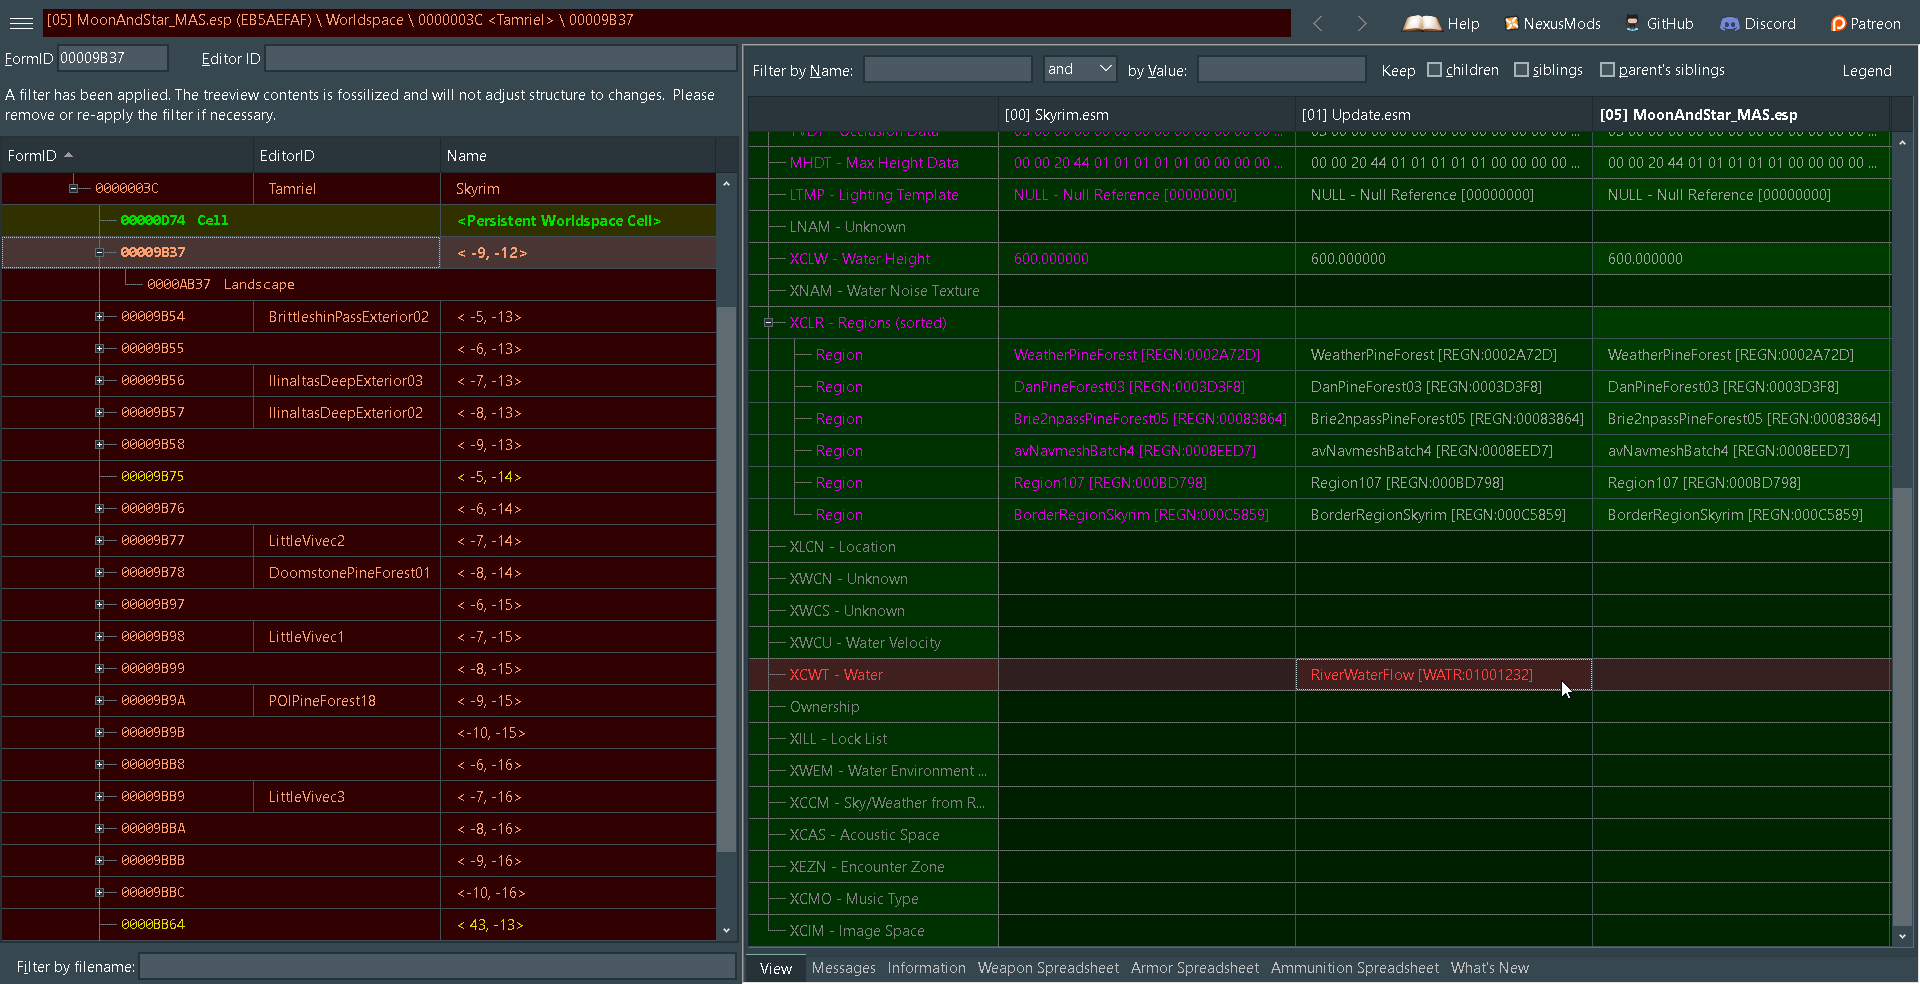
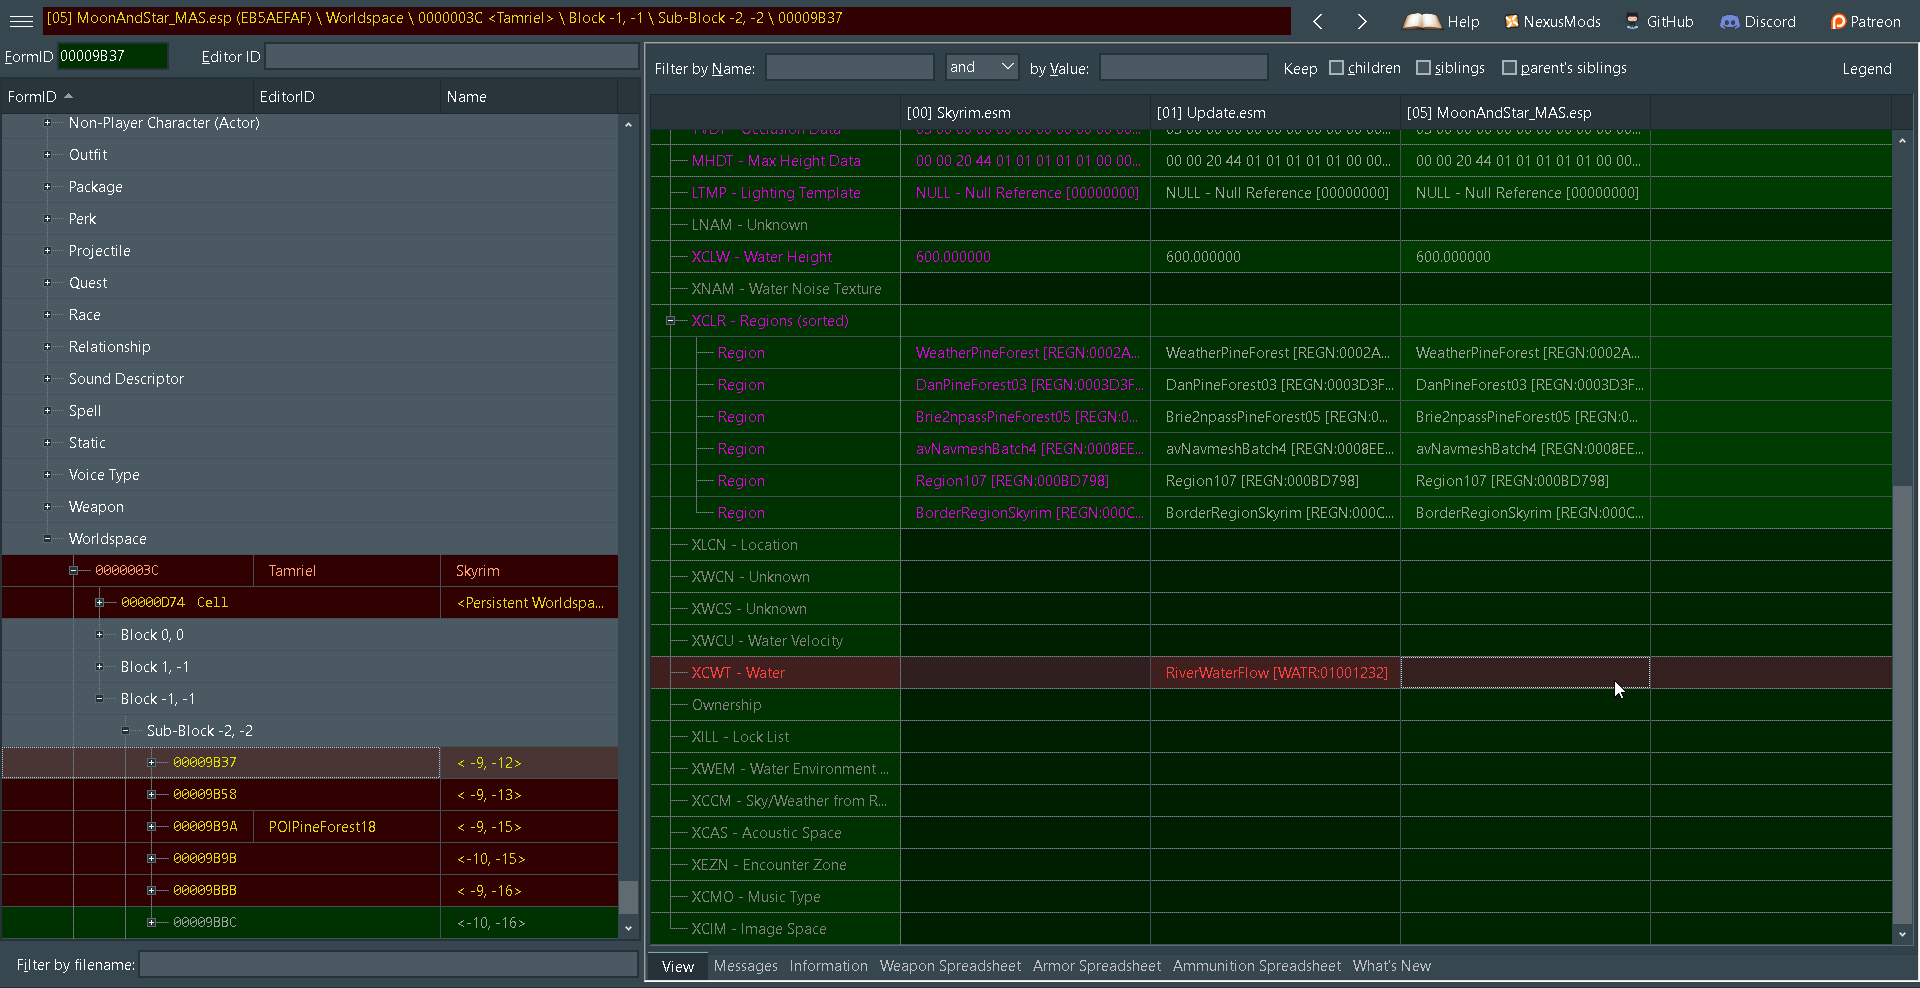
Update Moon & Star Guide
- Added steps for DLC regions & water flow records.

diff --git a/index.md b/index.md
@@ -78,30 +78,28 @@ The Wild edits are now corrected, you can save the changes to the cleaned plugin
 
 #### Edit the following record(s) with SSEEdit
 - Open SSEEDIT.
-- Right click and select none.
-- Select `Heartfires.esm` and `MoonAndStar_MAS.esp`.
-- Add `Heartfires.esm` as a master to `MoonAndStar_MAS.esp`.
+- Right click the module selection window.
+- `Select none` from the context menu.![image](pics/MAS-Select-none.png)
+- Then select only the `DLC` & ``MoonAndStar_MAS.esp`.![image](pics/MAS-Module-Selection.png)
+- In the left panel, right click `MoonAndStar_MAS.esp`.
+- Select `Add masters` from the context menu.![image](pics/MAS-addmaster.png)
+- Tick `Heartfires.esm` and click okay.![image](pics/MAS-addmasters-selection.png)
 
-  ![image](pics/MAS-addmaster.png)
-  ![image](pics/MAS-addmasters-selection.png)
-
-- Open record `000166A9`
-
-  ![image](pics/MAS-000166A9-before-drag-navm.png)
-
-- Drag & Drop these values from `Heartfires.esm` to `MoonAndStar_MAS.esp`.
-    
-    - `Navigation Mesh`
-
-  ![image](pics/MAS-000166A9-before-drag-navm.png)
-
-  ![image](pics/MAS-000166A9-after-drop-navm.png)
-    
-    - `Teleport Marker Triangle`
-
-  ![image](pics/MAS-000166A9-before-drag-TMT.png)
-
+1. Open record `000166A9` and scroll down to the subrecord `XNDP - Navigation Door Link`.![image](pics/MAS-000166A9-before-drag-navm.png)
+2. Drag & Drop the values in subrecord `XNDP - Navigation Door Link`![image](pics/MAS-000166A9-before-drag-navm.png) 
+  - from `Heartfires.esm` into `MoonAndStar_MAS.esp`.
   ![image](pics/MAS-000166A9-after-drop-TMT.png)
+
+3. Open `cell` record `00009B37` and scroll down to the subrecord `XCWT - Water`.![image](pics/MAS-00009B37-XCWT.png)
+  - Drag & Drop the value in the `XCWT - Water` subrecord from `Update.esm` into `MoonAndStar_MAS.esp` `![image](pics/MAS-00009B37-XCWT-After.png)
+
+4. The following records also need the `XCWT - Water` subrecord value copied from `Update.esm` into `MoonAndStar_MAS.esp`.
+   - `00009B37`, `00009B58`, `00009B9A`, `00009B9B`, `00009BBB`
+   - `00009B54`, `00009B55`, `00009B56`, `00009B57`, `00009B75`
+   - `00009B76`, `00009B77`, `00009B78`, `00009B97`, `00009B98`
+   - `00009B99`, `00009BB8`, `00009BB9`, `00009BBA`.
+
+1. `00000D74` Drag and drop the `XCLR - Regions` subrecord from `Dawnguard.esm` on to the corresponding empty subrecord in `MoonAndStar_MAS.esp`.![image](pics/MAS-00000D74-before.png)![image](pics/MAS-00000D74-after.png)
 
 The Wild edits are now corrected, you can save the changes to the cleaned plugin with `ctrl+s` or when prompted before exiting SSEEdit.
 
